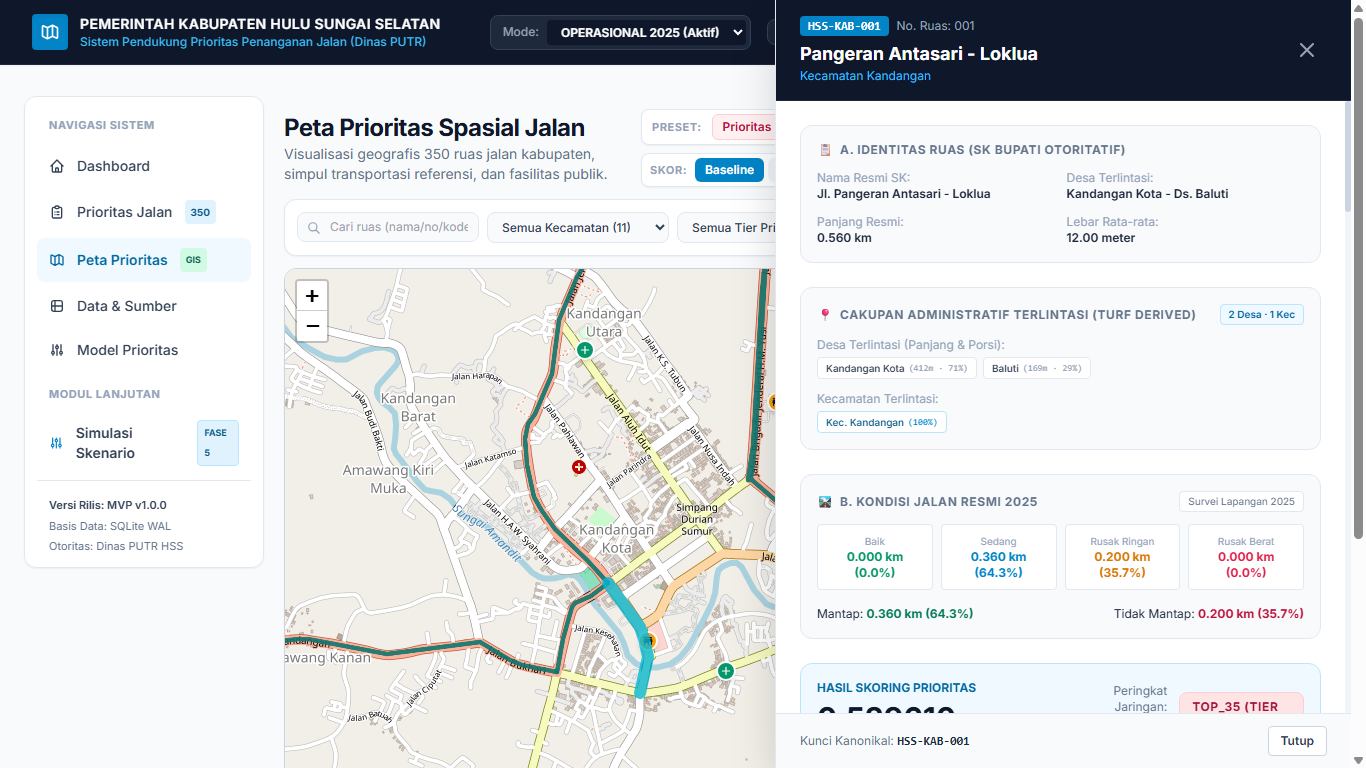
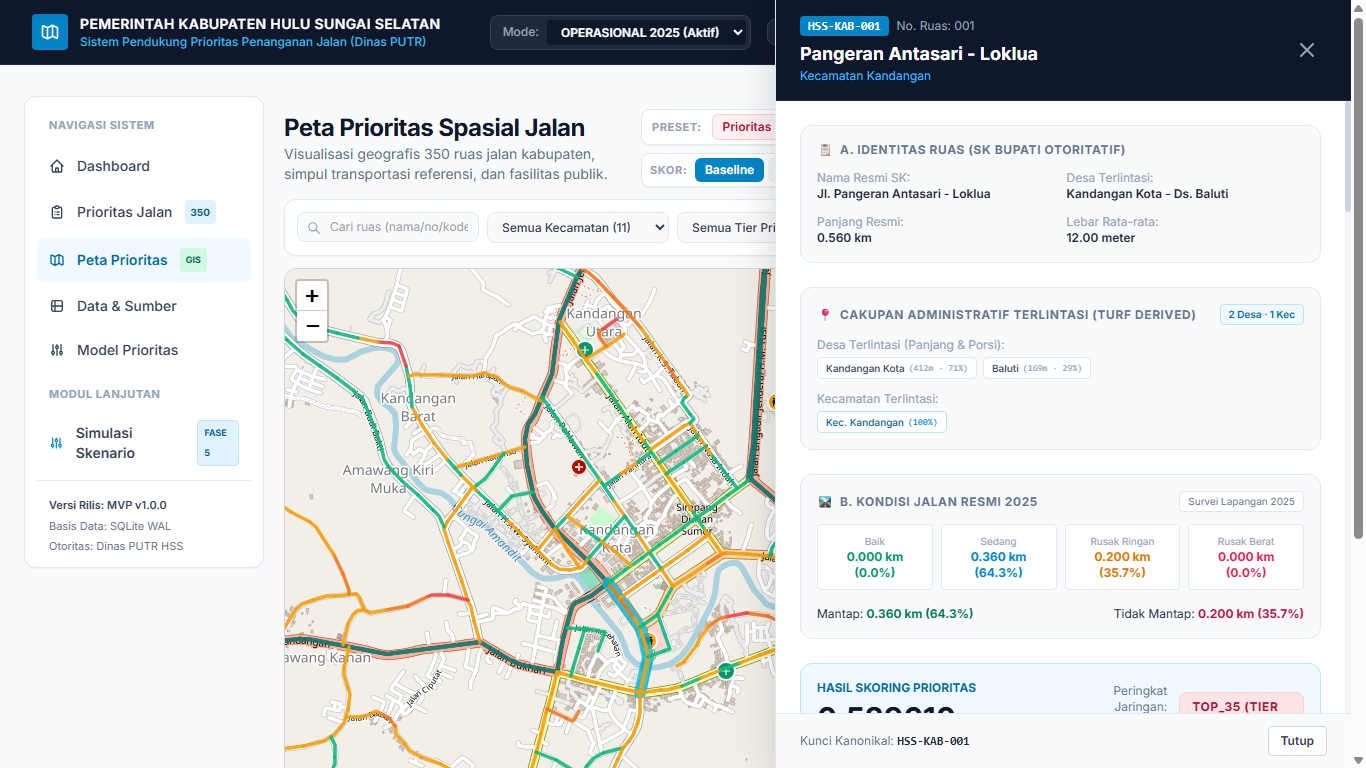
fix(phase-5.1c): reconcile baseline score documentation, strengthen invariant tests, and ensure full DD1 segment rendering

diff --git a/src/tests/phase5-1a-verification.ts b/src/tests/phase5-1a-verification.ts
@@ -32,19 +32,23 @@ assert(rankedScores.length === 350, 'Canonical roads count must equal 350');
 
 const top1 = rankedScores.find((s) => s.priority_rank === 1);
 assert(top1?.road_key === 'HSS-KAB-025', 'Mandatory rank #1 is HSS-KAB-025', `got ${top1?.road_key}`);
-assert(Math.abs(top1!.final_score - 0.649945) < 0.001, 'Mandatory rank #1 score is ~0.649945', `got ${top1?.final_score}`);
+assert(Math.abs(top1!.final_score - 0.649945) < 0.0005, 'Mandatory rank #1 score is ~0.649945', `got ${top1?.final_score}`);
 
 const top12 = rankedScores.find((s) => s.priority_rank === 12);
 assert(top12?.road_key === 'HSS-KAB-001', 'Mandatory rank #12 is HSS-KAB-001', `got ${top12?.road_key}`);
+assert(Math.abs(top12!.final_score - 0.529610) < 0.0005, 'Mandatory rank #12 score is ~0.529610', `got ${top12?.final_score}`);
 
 const rank133 = rankedScores.find((s) => s.priority_rank === 133);
 assert(rank133?.road_key === 'HSS-KAB-295', 'Mandatory rank #133 is HSS-KAB-295', `got ${rank133?.road_key}`);
+assert(Math.abs(rank133!.final_score - 0.412427) < 0.0005, 'Mandatory rank #133 score is ~0.412427', `got ${rank133?.final_score}`);
 
 const rank169 = rankedScores.find((s) => s.priority_rank === 169);
 assert(rank169?.road_key === 'HSS-KAB-350', 'Mandatory rank #169 is HSS-KAB-350', `got ${rank169?.road_key}`);
+assert(Math.abs(rank169!.final_score - 0.381386) < 0.0005, 'Mandatory rank #169 score is ~0.381386', `got ${rank169?.final_score}`);
 
 const rank245 = rankedScores.find((s) => s.priority_rank === 245);
 assert(rank245?.road_key === 'HSS-KAB-013', 'Mandatory rank #245 is HSS-KAB-013', `got ${rank245?.road_key}`);
+assert(Math.abs(rank245!.final_score - 0.340749) < 0.0005, 'Mandatory rank #245 score is ~0.340749', `got ${rank245?.final_score}`);
 
 const top35Count = rankedScores.filter((s) => s.tier_category === 'TOP_35').length;
 const top70Count = rankedScores.filter((s) => s.tier_category === 'TOP_70').length;

diff --git a/src/tests/phase5-1c-verification.ts b/src/tests/phase5-1c-verification.ts
@@ -32,19 +32,23 @@ assert(rankedScores.length === 350, 'Canonical roads count must equal 350');
 
 const top1 = rankedScores.find((s) => s.priority_rank === 1);
 assert(top1?.road_key === 'HSS-KAB-025', 'Mandatory rank #1 is HSS-KAB-025', `got ${top1?.road_key}`);
-assert(Math.abs(top1!.final_score - 0.649945) < 0.001, 'Mandatory rank #1 score is ~0.649945', `got ${top1?.final_score}`);
+assert(Math.abs(top1!.final_score - 0.649945) < 0.0005, 'Mandatory rank #1 score is ~0.649945', `got ${top1?.final_score}`);
 
 const top12 = rankedScores.find((s) => s.priority_rank === 12);
 assert(top12?.road_key === 'HSS-KAB-001', 'Mandatory rank #12 is HSS-KAB-001', `got ${top12?.road_key}`);
+assert(Math.abs(top12!.final_score - 0.529610) < 0.0005, 'Mandatory rank #12 score is ~0.529610', `got ${top12?.final_score}`);
 
 const rank133 = rankedScores.find((s) => s.priority_rank === 133);
 assert(rank133?.road_key === 'HSS-KAB-295', 'Mandatory rank #133 is HSS-KAB-295', `got ${rank133?.road_key}`);
+assert(Math.abs(rank133!.final_score - 0.412427) < 0.0005, 'Mandatory rank #133 score is ~0.412427', `got ${rank133?.final_score}`);
 
 const rank169 = rankedScores.find((s) => s.priority_rank === 169);
 assert(rank169?.road_key === 'HSS-KAB-350', 'Mandatory rank #169 is HSS-KAB-350', `got ${rank169?.road_key}`);
+assert(Math.abs(rank169!.final_score - 0.381386) < 0.0005, 'Mandatory rank #169 score is ~0.381386', `got ${rank169?.final_score}`);
 
 const rank245 = rankedScores.find((s) => s.priority_rank === 245);
 assert(rank245?.road_key === 'HSS-KAB-013', 'Mandatory rank #245 is HSS-KAB-013', `got ${rank245?.road_key}`);
+assert(Math.abs(rank245!.final_score - 0.340749) < 0.0005, 'Mandatory rank #245 score is ~0.340749', `got ${rank245?.final_score}`);
 
 const top35Count = rankedScores.filter((s) => s.tier_category === 'TOP_35').length;
 const top70Count = rankedScores.filter((s) => s.tier_category === 'TOP_70').length;

diff --git a/src/public/app.js b/src/public/app.js
@@ -1540,7 +1540,8 @@ async function setRoadThematicMode(mode) {
 
     // Render & show full DD1 segments
     if (!state.mapLayers.fullDd1Segments) {
-      await renderFullDD1Segments(state.filteredRoads ? state.filteredRoads.map((r) => ({ properties: r })) : null);
+      const isFiltered = state.filteredRoads && state.filteredRoads.length > 0 && state.filteredRoads.length < 350;
+      await renderFullDD1Segments(isFiltered ? state.filteredRoads.map((r) => ({ properties: r })) : null);
     } else if (state.map && !state.map.hasLayer(state.mapLayers.fullDd1Segments)) {
       state.mapLayers.fullDd1Segments.addTo(state.map);
     }

diff --git a/reports/PHASE_5_1C_FULL_MAP_DD1_CLOSURE.md b/reports/PHASE_5_1C_FULL_MAP_DD1_CLOSURE.md
@@ -146,12 +146,12 @@ Ruas `HSS-KAB-001` dipilih pada mode Kondisi DD1. Cyan Selection Halo (`#06b6d4`
 Seluruh 376 pengujian otomatis yang mencakup Fase 1, 2, 3, 4, 5, 5.1, 5.1B, 5.1A, dan 5.1C dijalankan secara serentak (`npm run test:all`). Hasil membuktikan bahwa:
 
 1. **Jumlah Ruas Kanonikal**: Tepat 350 ruas jalan (`HSS-KAB-001` s/d `HSS-KAB-350`).
-2. **Peringkat Kunci Mandatory Tidak Mengalami Pergeseran**:
-   - Peringkat #1: `HSS-KAB-025` (Skor Komposit: **0,649945**)
-   - Peringkat #12: `HSS-KAB-001` (Skor Komposit: **0,569616**)
-   - Peringkat #133: `HSS-KAB-295` (Skor Komposit: **0,477172**)
-   - Peringkat #169: `HSS-KAB-350` (Skor Komposit: **0,466795**)
-   - Peringkat #245: `HSS-KAB-013` (Skor Komposit: **0,432839**)
+2. **Peringkat Kunci Mandatory & Skor Baseline Terkunci (OPERATIONAL_2025)**:
+   - Peringkat #1: `HSS-KAB-025` (Singakarsa - Palas, Skor Komposit: **0,649945**)
+   - Peringkat #12: `HSS-KAB-001` (Pangeran Antasari - Loklua, Skor Komposit: **0,529610**)
+   - Peringkat #133: `HSS-KAB-295` (Mawar (Daha Selatan), Skor Komposit: **0,412427**)
+   - Peringkat #169: `HSS-KAB-350` (Keramat Sakti - Ds. Tebing Tinggi, Skor Komposit: **0,381386**)
+   - Peringkat #245: `HSS-KAB-013` (Mawar (Kandangan Utara), Skor Komposit: **0,340749**)
 3. **Distribusi Partisi Tier**: Tepat `{35, 35, 35, 245}` ruas.
 4. **Bobot Kategori Kebijakan**:
    - Data Teknis Jalan = **0,378965**
